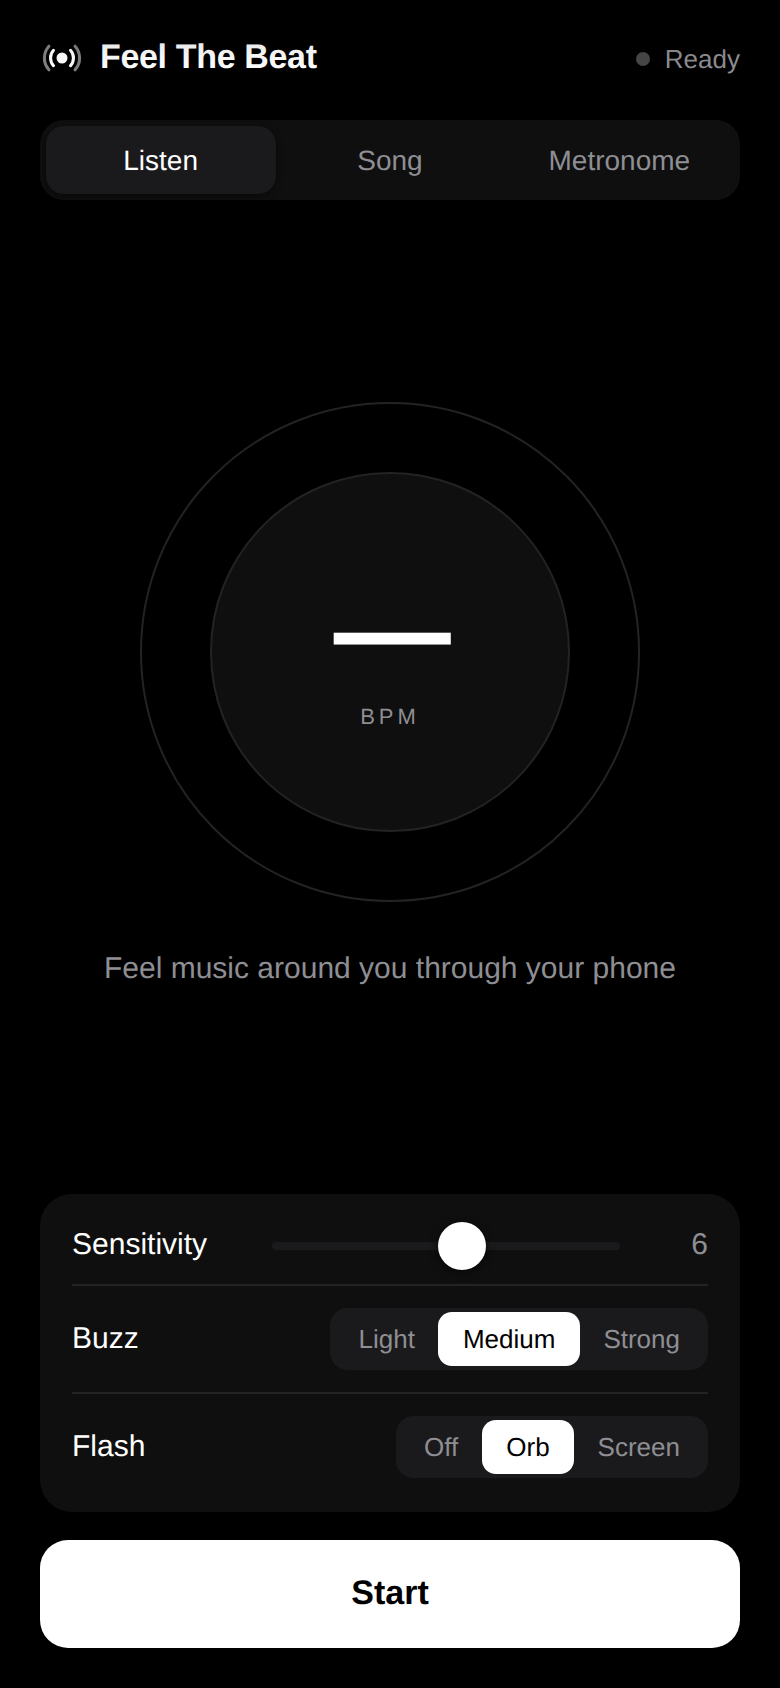
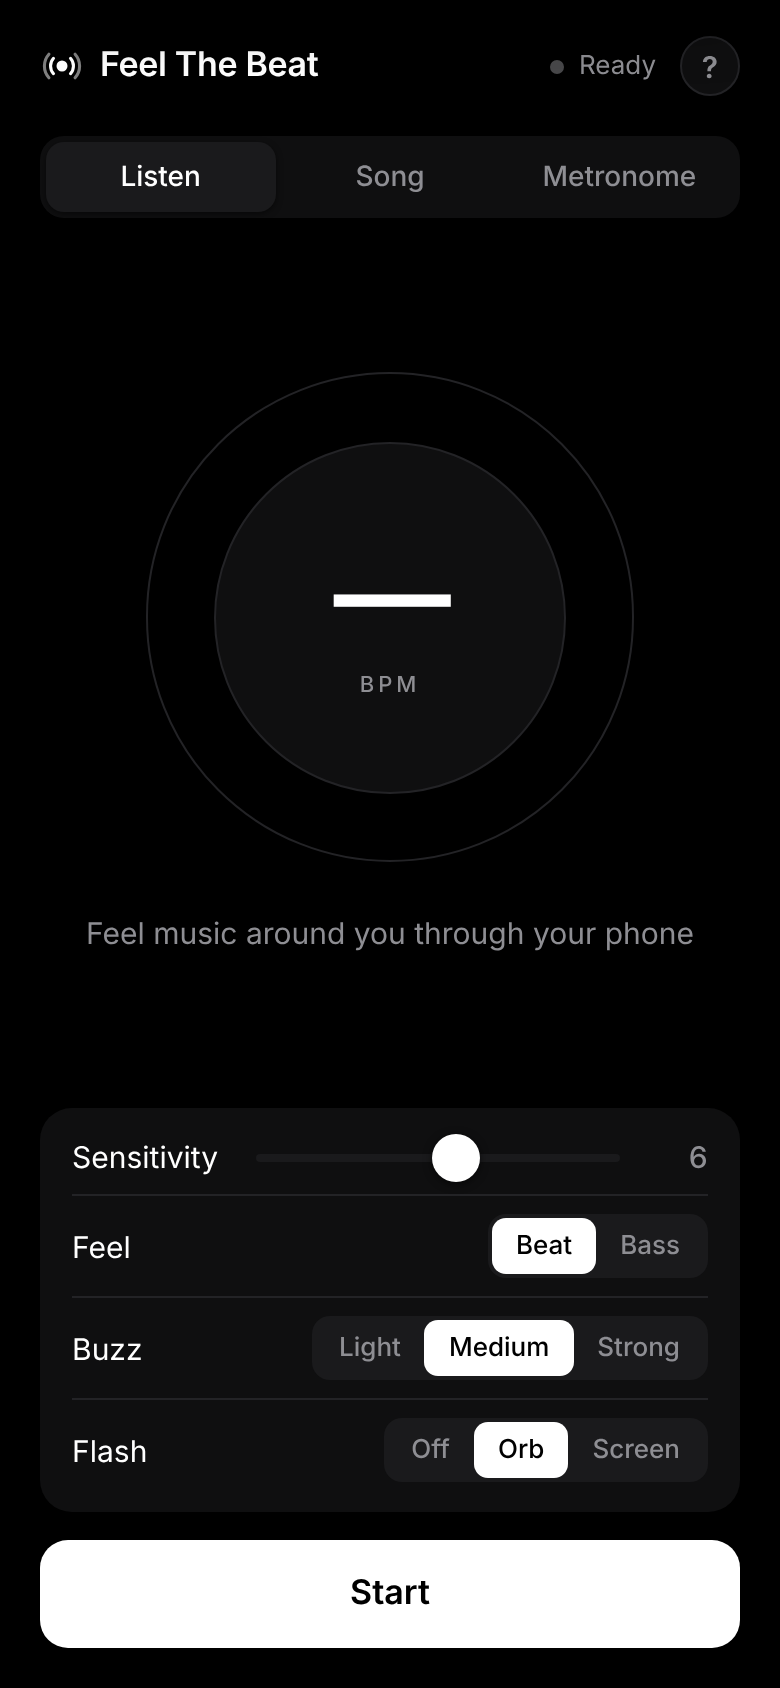
Docs and screenshots for Netlify, the native apps and the new features
- README: Netlify link, phone support table (apps vs websites), new
  features, how vibration works, project layout.
- native/README.md: how to get the Android test APK, build both apps,
  and publish them.
- Roadmap, privacy policy (Netlify hosting, saved settings, apps) and
  store copy updated. New help screenshot.
- Workflow actions moved to v5 (Node 24).

Claude-Session: https://claude.ai/code/session_01Dm5ZqNx9cZynNzveLupvBU

diff --git a/README.md b/README.md
@@ -10,7 +10,8 @@
 </p>
 
 <p align="center">
-  <a href="https://saintjohn314.github.io/Feel-The-Beat/"><b>▶ Open the app</b></a> ·
+  <a href="https://feel-the-beat-app.netlify.app"><b>▶ Open the app</b></a> ·
+  <a href="native/README.md">iPhone &amp; Android apps</a> ·
   <a href="PRIVACY.md">Privacy</a> ·
   <a href="ROADMAP.md">Roadmap</a> ·
   <a href="STORE_LISTING.md">Press &amp; store copy</a>
@@ -25,10 +26,11 @@ Music is felt as much as it's heard: the kick drum in your chest, the bass throu
 No account. No ads. Nothing to set up. Open it and press **Start**.
 
 <p align="center">
-  <img src="screenshots/home.png" width="23%" alt="Home screen">
-  <img src="screenshots/beat.png" width="23%" alt="Feeling the beat">
-  <img src="screenshots/metronome.png" width="23%" alt="Metronome">
-  <img src="screenshots/warning.png" width="23%" alt="Photosensitivity warning">
+  <img src="screenshots/home.png" width="19%" alt="Home screen">
+  <img src="screenshots/beat.png" width="19%" alt="Feeling the beat">
+  <img src="screenshots/metronome.png" width="19%" alt="Metronome">
+  <img src="screenshots/help.png" width="19%" alt="Help and vibration test">
+  <img src="screenshots/warning.png" width="19%" alt="Photosensitivity warning">
 </p>
 
 ## Features
@@ -37,16 +39,19 @@ No account. No ads. Nothing to set up. Open it and press **Start**.
 |---|---|
 | **Listen** | Uses the microphone to feel music playing around you: at a concert, in the car, at a party. |
 | **Song** | Pick a song on your phone, or tap **Demo beat**, and feel it as it plays. |
-| **Metronome** | A steady beat from 40–220 BPM, with a stronger buzz on beat 1. Great for dancing, drumming and practice. |
+| **Metronome** | A steady beat from 40–220 BPM, 2, 3, 4 or 6 beats per bar, with a stronger buzz and beat dots on beat 1. Tap the circle to set the tempo. |
+| **Feel: Beat or Bass** | **Beat** buzzes once per beat, harder for harder hits. **Bass** makes the buzz follow the bass line. |
 | **Live BPM** | Shows the tempo of what you're feeling. |
 | **Buzz strength** | Light, Medium or Strong. |
-| **Visual pulse** | A gentle pulse on every beat, with an optional full-screen flash (off by default, behind a photosensitivity warning). |
+| **Visual pulse** | A pulse and a bass glow on every beat, with an optional full-screen flash (off by default, behind a photosensitivity warning). |
+| **Test buzz** | The **?** button shows what your phone can do, lets you test the buzz, and gives tips. |
+| **Remembers you** | Keeps your settings for next time. |
 | **Private by design** | All listening happens on your device. No audio is recorded, stored or sent anywhere. |
 | **Works offline** | Once opened, it keeps working without a connection. |
 
 ## Get it on your phone
 
-1. Open **https://saintjohn314.github.io/Feel-The-Beat/** on your phone.
+1. Open **https://feel-the-beat-app.netlify.app** on your phone.
 2. **iPhone (Safari):** tap Share → **Add to Home Screen**.
    **Android (Chrome):** tap ⋮ → **Install app** / **Add to Home screen**.
 3. Launch it from your home screen like any other app.
@@ -55,19 +60,22 @@ No account. No ads. Nothing to set up. Open it and press **Start**.
 
 | | Vibration | Visual pulse | Mic / Song / Metronome |
 |---|---|---|---|
-| **Android** (Chrome) | ✅ Full vibration | ✅ | ✅ |
-| **iPhone** (Safari, iOS 18+) | ⚠ Light haptic tap* | ✅ | ✅ |
+| **Android app** | ✅ Full vibration | ✅ | ✅ |
+| **Android website** (Chrome, Edge, Samsung Internet) | ✅ Full vibration | ✅ | ✅ |
+| **iPhone app** | ✅ Full haptics (Taptic Engine) | ✅ | ✅ |
+| **iPhone website** (Safari) | ⚠ Light taps on iOS 18–26.4, none on iOS 26.5+* | ✅ | ✅ |
 
-\* Apple doesn't let websites use the vibration motor. The native App Store version (see [Roadmap](ROADMAP.md)) will use full-strength haptics on iPhone.
+\* Apple doesn't let websites use the vibration motor, and iOS 26.5 blocked the tap trick websites used. **For vibration on iPhone, use the app.** See [native/README.md](native/README.md) for how to build and install the iPhone and Android apps (the Android test app can be downloaded from the repo's Actions tab).
 
 ## How it works
 
 - Audio (from the mic, a song, or the built-in demo) passes through a **low-pass filter at 150 Hz**. That keeps the kick drum and bass, where the beat lives.
 - The app tracks bass energy about 60 times a second and compares it to the last second of audio. When the energy jumps above the recent average by an amount set with the **Sensitivity** slider, it counts a beat.
-- Each beat triggers a vibration (Android `navigator.vibrate`, or iOS's system haptic) and the visual pulse.
+- Each beat triggers a buzz and the visual pulse. Harder hits buzz longer. The app uses the Haptics plugin in the native apps, `navigator.vibrate` in Android browsers, and the iOS switch tap in iPhone browsers.
+- **Bass** feel measures how loud the bass is about 20 times a second and runs the motor for that share of each moment, so you feel the bass line rise and fall.
 - The BPM is the median of recent beat gaps, so one stray hit doesn't throw it off.
 
-Tested with real music: it locked onto a 90 BPM track within 5 seconds and held it, and it detects the 120 BPM demo beat exactly.
+Tested with real music: it locked onto a 90 BPM track within 5 seconds and held it, and it detects the 120 BPM demo beat exactly. Automated browser tests check that each kind of phone gets the right buzz on every beat, through the microphone, a song and the metronome.
 
 ## Safety
 
@@ -75,7 +83,7 @@ Tested with real music: it locked onto a 90 BPM track within 5 seconds and held 
 
 ## Tech
 
-A single-file progressive web app. Plain HTML, CSS and JavaScript using the Web Audio API, with no frameworks and no build step.
+A single-file progressive web app. Plain HTML, CSS and JavaScript using the Web Audio API, with no frameworks and no build step. The iPhone and Android apps wrap the same file with [Capacitor](https://capacitorjs.com).
 
 ```
 index.html            the app
@@ -84,13 +92,20 @@ sw.js                 offline support
 icons/                app icons
 brand/                logos, app icon, banner (SVG + PNG)
 screenshots/          app screenshots
+native/               iPhone (ios/) and Android (android/) apps — see native/README.md
+scripts/build-web.mjs copies the web app into dist/ (Netlify) or native/www/ (apps)
+netlify.toml          Netlify hosting settings
 ```
 
 Run it locally: `python3 -m http.server` in this folder, then open `http://localhost:8000`.
 
+### Hosting
+
+The website is hosted on **Netlify** at [feel-the-beat-app.netlify.app](https://feel-the-beat-app.netlify.app). `netlify.toml` tells Netlify to publish only the web app. With the repo linked in Netlify, every push to `main` goes live on its own.
+
 ## Roadmap
 
-Native iOS and Android apps for the App Store and Google Play. See [ROADMAP.md](ROADMAP.md).
+Publish the iPhone and Android apps on the App Store and Google Play. See [ROADMAP.md](ROADMAP.md).
 
 ---
 

diff --git a/native/README.md b/native/README.md
@@ -1,0 +1,58 @@
+# Feel The Beat: iPhone and Android apps
+
+The native apps are the same web app (`../index.html`) inside a [Capacitor](https://capacitorjs.com) shell. The big difference is vibration:
+
+| | Website | Native app |
+|---|---|---|
+| **iPhone** | No vibration motor. Light taps on iOS 18–26.4 only. | ✅ **Full haptics** (Taptic Engine) on every beat |
+| **Android** | ✅ Full vibration | ✅ Full vibration |
+
+The app calls the [Haptics plugin](https://capacitorjs.com/docs/apis/haptics) straight from `index.html` (heavy taps on iPhone, timed buzzes on Android). It also uses [Keep Awake](https://github.com/capacitor-community/keep-awake) to keep the screen on while it's running.
+
+## Get the Android app without installing anything
+
+Every push builds the apps on GitHub ([Native apps workflow](../.github/workflows/native-apps.yml)).
+
+1. Open the repo's **Actions** tab → **Native apps** → the latest green run.
+2. Download **feel-the-beat-android** (a zip with `app-debug.apk`).
+3. Copy the APK to an Android phone, open it, and allow installing from this source.
+
+This is a test build. Google Play needs a signed release build (below).
+
+## Build it yourself
+
+You need **Node.js 22+**, plus:
+- **iPhone:** a Mac with **Xcode 26** or newer
+- **Android:** **Android Studio** (2025.2.1 or newer), which brings Java 21 and the Android SDK
+
+```bash
+cd native
+npm install
+npm run ios       # copies the web app in, then opens Xcode
+npm run android   # copies the web app in, then opens Android Studio
+```
+
+- **iPhone:** in Xcode, pick your Apple ID under *Signing & Capabilities* (team), plug in your iPhone, and press ▶. Vibration only works on a real iPhone, not the Simulator.
+- **Android:** in Android Studio, plug in your phone (USB debugging on) and press ▶.
+
+After you change `index.html`, run `npm run sync` (or `npm run ios` / `npm run android` again) to copy it into both apps.
+
+## What's set up
+
+| | |
+|---|---|
+| App ID | `com.johnwood.feelthebeat` (change it in `capacitor.config.json` *before* the first store upload; it can't change afterwards) |
+| Name | Feel The Beat |
+| Microphone | iPhone: `NSMicrophoneUsageDescription` in `ios/App/App/Info.plist`. Android: `RECORD_AUDIO` in `android/app/src/main/AndroidManifest.xml` |
+| Vibration | Haptics plugin; Android `VIBRATE` permission |
+| Devices | iPhone only (iPads have no vibration motor), portrait |
+| Look | Black background, white status bar text, brand icon and splash screen (sources in `assets/`) |
+
+To change the icon or splash screen, replace the PNGs in `assets/` and run `npx @capacitor/assets generate`.
+
+## Publishing
+
+- **App Store:** join the Apple Developer Program ($99/year). In Xcode, choose *Product → Archive*, then upload to App Store Connect and test with TestFlight.
+- **Google Play:** create a Play Console account ($25 once). In Android Studio, choose *Build → Generate Signed App Bundle*, then upload the `.aab`. Keep the signing key safe: you need it for every update.
+
+Store text is in [`../STORE_LISTING.md`](../STORE_LISTING.md) and the privacy policy in [`../PRIVACY.md`](../PRIVACY.md).

diff --git a/PRIVACY.md b/PRIVACY.md
@@ -1,8 +1,8 @@
 # Privacy Policy — Feel The Beat
 
-_Last updated: September 24, 2026_
+_Last updated: October 29, 2026_
 
-Feel The Beat ("the app") is built to work entirely on your device. This policy explains what that means.
+Feel The Beat ("the app") is built to work entirely on your device. This policy covers the website and the iPhone and Android apps.
 
 ## The short version
 - **We don't collect any personal data.**
@@ -10,16 +10,19 @@ Feel The Beat ("the app") is built to work entirely on your device. This policy 
 - No accounts, no ads, no analytics, no tracking.
 
 ## Microphone
-In **Listen** mode, the app asks for microphone access so it can detect the beat of music around you. The audio is analyzed live, in memory, on your device, and thrown away right after. It is never recorded, saved, or sent to us or anyone else. You can turn off microphone access at any time in your phone or browser settings. The app's other modes don't use the microphone.
+In **Listen** mode, the app asks for microphone access so it can detect the beat of music around you. In the iPhone and Android apps, this is the system's microphone permission. The audio is analyzed live, in memory, on your device, and thrown away right after. It is never recorded, saved, or sent to us or anyone else. You can turn off microphone access at any time in your phone or browser settings. The app's other modes don't use the microphone.
 
 ## Songs you choose
 In **Song** mode, the file you pick is played and analyzed on your device only. It is never uploaded.
 
 ## Settings and storage
-The app may keep its own files on your device (for example, so it works offline). It doesn't store anything that identifies you.
+The app saves your settings (such as buzz strength and tempo) on your device so they're there next time, and may keep its own files so it works offline. It doesn't store anything that identifies you, and none of it is sent anywhere.
+
+## Vibration
+The app uses your phone's vibration motor. This needs no personal data.
 
 ## Hosting
-The web version is hosted on GitHub Pages. Like any website host, GitHub may log basic technical information (such as IP addresses) when the page loads. See [GitHub's Privacy Statement](https://docs.github.com/en/site-policy/privacy-policies/github-general-privacy-statement).
+The web version is hosted on Netlify (and a copy on GitHub Pages). Like any website host, they may log basic technical information (such as IP addresses) when the page loads. See [Netlify's Privacy Policy](https://www.netlify.com/privacy/) and [GitHub's Privacy Statement](https://docs.github.com/en/site-policy/privacy-policies/github-general-privacy-statement). The iPhone and Android apps don't load anything from the internet.
 
 ## Children
 The app doesn't collect data from anyone, including children.

diff --git a/ROADMAP.md b/ROADMAP.md
@@ -8,16 +8,27 @@
 - Installable (Add to Home Screen) and works offline
 - Privacy policy, logo and store copy
 
-## Phase 2: Native apps (next)
-Wrap the existing app with **[Capacitor](https://capacitorjs.com)** so the same code becomes a real iOS and Android app.
+## ✅ Phase 1.5: Better feel (done)
+- Buzz length follows how hard each beat hits
+- **Bass** feel: the buzz follows the bass line
+- Metronome beats per bar, beat dots and tap tempo
+- Help sheet with a vibration test and tips; opens on first launch
+- Settings are remembered
+- Hosted on Netlify
 
-| Step | What | Why |
+## Phase 2: Native apps (in progress)
+The existing app is wrapped with **[Capacitor](https://capacitorjs.com)** so the same code is a real iOS and Android app. See [native/README.md](native/README.md).
+
+| Step | What | Status |
 |---|---|---|
-| 1 | Add Capacitor and generate the `ios/` and `android/` projects | One codebase, two native apps |
-| 2 | Use the **Capacitor Haptics** plugin (Core Haptics on iPhone, Vibrator on Android) | **Full-strength vibration on iPhone**, which websites can't do |
-| 3 | Add microphone permission text (`NSMicrophoneUsageDescription`: "Feel The Beat uses the microphone to detect the beat of music around you. Audio is never recorded or stored.") | Required by Apple |
-| 4 | Let it keep running with the screen off (background audio) | Feel a whole concert without keeping the screen on |
-| 5 | Test on real phones (TestFlight / Play internal testing) | Tune buzz strength on real hardware |
+| 1 | Add Capacitor and generate the `ios/` and `android/` projects | ✅ Done (`native/`) |
+| 2 | Use the **Capacitor Haptics** plugin (Taptic Engine on iPhone, vibration motor on Android) for **full vibration on iPhone**, which websites can't do | ✅ Done |
+| 3 | Microphone permission text (`NSMicrophoneUsageDescription`: "Feel The Beat uses the microphone to feel the beat of music around you. Audio is never recorded or stored.") | ✅ Done |
+| 4 | Keep the screen on while it's running | ✅ Done |
+| 5 | Build both apps on every push (GitHub Actions), with a downloadable Android test APK | ✅ Done |
+| 6 | Test on real phones (TestFlight / Play internal testing) and tune buzz strength | Next |
+| 7 | Keep running with the screen off (background audio) | Later |
+| 8 | Richer iPhone haptics (Core Haptics patterns with intensity, for a longer buzz than a tap) | Later |
 
 **What you need**
 - **Apple Developer Program:** $99/year (needed to publish on the App Store). Building for iPhone needs a **Mac with Xcode**, or a cloud Mac build service.

diff --git a/STORE_LISTING.md b/STORE_LISTING.md
@@ -29,9 +29,10 @@ Music is more than sound. It's the kick drum in your chest and the bass through 
 **THREE WAYS TO FEEL IT**
 • **Listen:** Feel the music around you at a concert, in the car or at a party.
 • **Song:** Pick any song on your phone and feel every beat as it plays.
-• **Metronome:** A steady, adjustable beat for dancing, drumming and practice.
+• **Metronome:** A steady, adjustable beat for dancing, drumming and practice. Tap to set the tempo.
 
 **MADE TO FIT YOU**
+• Feel each beat, or switch to Bass and feel the bass line.
 • Choose a light, medium or strong buzz.
 • Adjust sensitivity for quiet rooms or loud venues.
 • See the live tempo (BPM) of what you're feeling.
@@ -54,7 +55,7 @@ Primary: **Music**. Secondary: **Health & Fitness** (App Store) / Tags: **Access
 
 ## Short social post
 Introducing **Feel The Beat**, an app that turns music into vibration and light so deaf and hard-of-hearing people can feel every beat. 🎵📳
-Try it free: https://saintjohn314.github.io/Feel-The-Beat/
+Try it free: https://feel-the-beat-app.netlify.app
 
 ## Press blurb (about 100 words)
-**Feel The Beat** is a free app that lets deaf and hard-of-hearing people feel music. Using the phone's microphone, a song from the user's library, or a built-in metronome, it detects each beat in real time. It turns every beat into a vibration and a visual pulse. There's no account, no ads and no data collection, and everything runs on the device. Created by John Wood, Feel The Beat is available now as a web app. Native iPhone and Android versions are in development.
+**Feel The Beat** is a free app that lets deaf and hard-of-hearing people feel music. Using the phone's microphone, a song from the user's library, or a built-in metronome, it detects each beat in real time. It turns every beat into a vibration and a visual pulse. There's no account, no ads and no data collection, and everything runs on the device. Created by John Wood, Feel The Beat is available now as a web app at feel-the-beat-app.netlify.app. iPhone and Android apps, with full vibration on iPhone, are coming soon.
